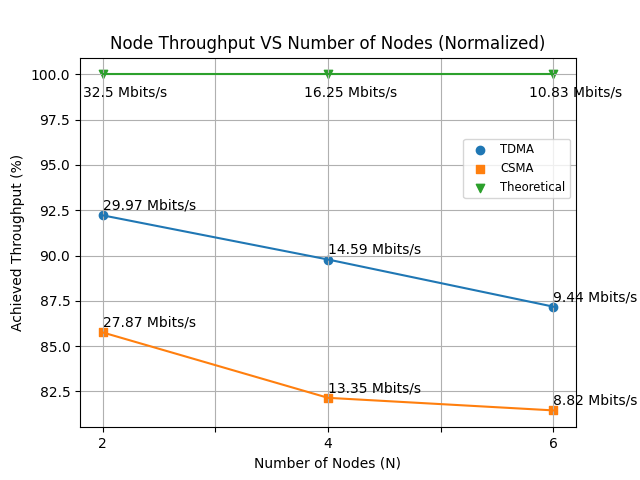
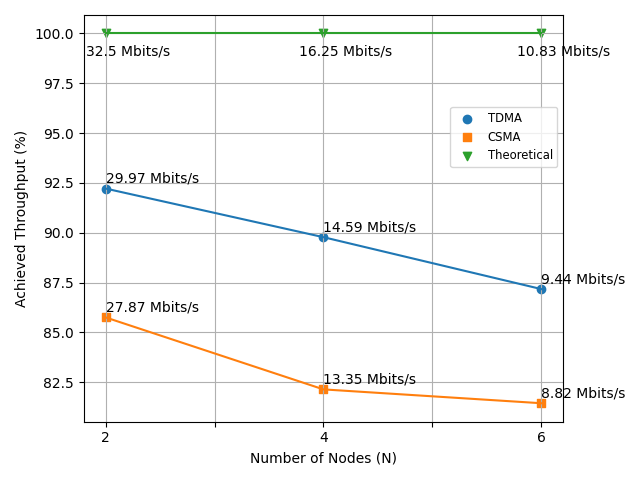
New normal throughput

diff --git a/docs/logs/generateCharts.py b/docs/logs/generateCharts.py
@@ -24,8 +24,8 @@ four_nodes = 1
 two_nodes = 1
 
 # Data aggregation
-distributions = 1
-node_number = 0
+distributions = 0
+node_number = 1
 over_time = 0
 
 # Throughput Regex
@@ -266,7 +266,7 @@ def custom_tick_formatter_line_x(value, _):
 
 def show_node_number_line():
 
-    fig, ax = plt.subplots(figsize=(20, 15))
+    fig, ax = plt.subplots()
     aggregated_data_tdma = dict()
     aggregated_data_csma = dict()
 
@@ -369,10 +369,11 @@ def show_node_number_line():
 
     plt.legend(fontsize='small', loc=5, bbox_to_anchor=(1, 0.7))
     plt.grid()
-    plt.title("Node Throughput VS Number of Nodes (Normalized)")
+    #plt.title("Node Throughput VS Number of Nodes (Normalized)")
     plt.xlabel("Number of Nodes (N)")
     plt.ylabel("Achieved Throughput (%)") 
 
+    plt.tight_layout()
     plt.savefig('charts/normalized-node-number.png')
 
 def show_sync():
@@ -580,8 +581,8 @@ def main():
     if(distributions):
         show_distributions()
     elif (node_number):
-        show_node_number_boxplot()
-        #show_node_number_line()
+        #show_node_number_boxplot()
+        show_node_number_line()
     elif(over_time):
         #show_over_time()
         show_sync()
